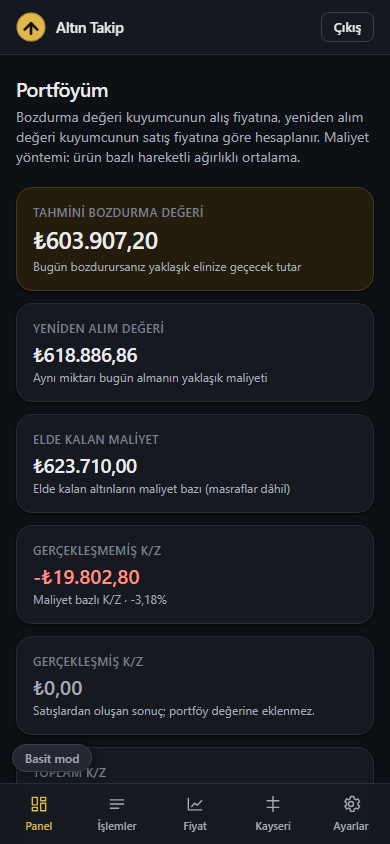
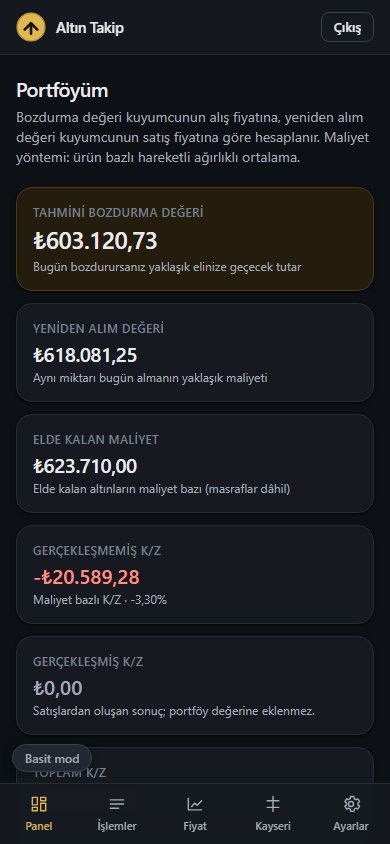
Tasarim turu: gezinme daraltildi, aciklamalar katlandi, altin temasi
KULLANICI GERI BILDIRIMI: "fiyat var kayseri var, ikisi de ayni", "bir suru
yazi var", "altin temasi olsun".

1) GEZINME 5 -> 4 MADDE

"Fiyat" (/fiyat-kaynagi) ve "Kayseri" (/kayseri-fiyatlari) ikisi de fiyat
ekraniydi; yan yana durunca hangisinin ne oldugu anlasilmiyordu. Tek
"Fiyatlar" maddesi kaldi, ikisi arasinda sayfa ici sekmeyle geciliyor.
ADRESLER KORUNDU: eski baglantilar ve yer imleri calisiyor.

2) ACIKLAMALAR KATLANDI (silinmedi)

Yeni <Explain> bilesenl: baslik tek satir durur, isteyen acar. `<details>`
kullanildi -- JavaScript olmadan calisir, klavyeyle acilir, ekran okuyucu
dogru anons eder.

Uygulandigi yerler:
  - Panel basligindaki "bozdurma degeri kuyumcunun alis fiyatina..." paragrafi
  - "Takip baslangicindan itibaren K/Z" bilgilendirmesi

Bu ikincisi icin kullanici "5-10 saniyede kapansin" dedi; KAPATILMADI. O kutu
bir olay bildirimi degil, ekranda DURAN kar/zarar sayisinin etiketidir. Kutu
gidip sayi kalsaydi kullanici onu gercek tarihsel maliyete dayali bir
kar/zarar sanirdi. Yerine yer kaplamasi kucultuldu: koca paragraf yerine tek
satir + isteyen acar.

Kart alti ipuclari kisaltildi ("Bugun bozdurursaniz yaklasik elinize gececek
tutar" -> "Bugun bozdurursaniz yaklasik").

3) ALTIN TEMASI

Yuzeyler soguk griden sicak tona cevrildi (#0d1014 -> #0f0e0b), metin hafif
kremlesti. Fark BILEREK kucuk: ekranin tamami altin rengi olmuyor, altin
rengi yalnizca vurgu icin ayri kaliyor -- yoksa rakamlarin okunabilirligi
duserdi.
[…]

diff --git a/src/components/dashboard-view.tsx b/src/components/dashboard-view.tsx
@@ -34,7 +34,7 @@ import { usePortfolio } from "@/state/portfolio-store";
 import { useViewMode } from "@/state/view-mode";
 import { PortfolioChart } from "./portfolio-chart";
 import { PriceSourceLine } from "./price-source-line";
-import { Card, DeltaValue, EmptyState, SectionTitle, cx, moneySizeClass } from "./ui";
+import { Card, DeltaValue, EmptyState, Explain, SectionTitle, cx, moneySizeClass } from "./ui";
 
 const PRICE_UNAVAILABLE = PRICE_UNAVAILABLE_LABEL;
 
@@ -319,10 +319,21 @@ export function DashboardView({ addHref, onAdd }: { addHref?: string; onAdd?: ()
         <h1 className="text-xl font-semibold tracking-tight text-ink sm:text-2xl">
           {portfolio?.name ?? "Portföyüm"}
         </h1>
-        <p className="mt-1 text-sm text-muted">
-          Bozdurma değeri kuyumcunun alış fiyatına, yeniden alım değeri kuyumcunun satış fiyatına
-          göre hesaplanır. Maliyet yöntemi: ürün bazlı hareketli ağırlıklı ortalama.
-        </p>
+        {/*
+          Açıklama SİLİNMEDİ, katlandı. Doğruluk için gerekli ama her açılışta
+          okunması gerekmiyor; isteyen açar.
+        */}
+        <Explain title="Bu sayılar nasıl hesaplanıyor?" className="mt-1.5">
+          <p>
+            <span className="font-medium text-ink">Bozdurma değeri</span> kuyumcunun alış fiyatına,{" "}
+            <span className="font-medium text-ink">yeniden alım değeri</span> kuyumcunun satış
+            fiyatına göre hesaplanır.
+          </p>
+          <p className="mt-1.5">
+            Maliyet yöntemi: ürün bazlı hareketli ağırlıklı ortalama. Gümüş ve döviz portföy
+            değerine girer, has altın gramına girmez.
+          </p>
+        </Explain>
       </div>
 
       {isClosed ? (
@@ -346,7 +357,7 @@ export function DashboardView({ addHref, onAdd }: { addHref?: string; onAdd?: ()
         <StatCard
           label={isSimple ? `Portföy değeri${partialSuffix}` : `Tahmini bozdurma değeri${partialSuffix}`}
           value={valuation(summary.totalLiquidationValue)}
-          hint={coverageText ?? "Bugün bozdurursanız yaklaşık elinize geçecek tutar"}
+          hint={coverageText ?? "Bugün bozdurursanız yaklaşık"}
           emphasis
           testId="stat-liquidation"
         />
@@ -354,14 +365,14 @@ export function DashboardView({ addHref, onAdd }: { addHref?: string; onAdd?: ()
           <StatCard
             label={`Yeniden alım değeri${partialSuffix}`}
             value={valuation(summary.totalReplacementValue)}
-            hint={coverageText ?? "Aynı miktarı bugün almanın yaklaşık maliyeti"}
+            hint={coverageText ?? "Aynısını bugün almanın maliyeti"}
             testId="stat-repurchase"
           />
         )}
         <StatCard
           label={isSimple ? "Toplam maliyet" : "Elde kalan maliyet"}
           value={formatMoney(summary.totalRemainingCostBasis)}
-          hint="Elde kalan altınların maliyet bazı (masraflar dâhil)"
+          hint="Masraflar dâhil"
           testId="stat-cost"
         />
         {isSimple ? (
@@ -448,16 +459,29 @@ export function DashboardView({ addHref, onAdd }: { addHref?: string; onAdd?: ()
         )}
       </div>
 
+      {/*
+        BU BİR BİLDİRİM DEĞİL, RAKAMIN ETİKETİDİR — bu yüzden kaybolmaz.
+        
+        Kullanıcı "5-10 saniye sonra kapansın" dedi; kapatmadım çünkü kutu bir
+        olayı ("kayıt eklendi") değil, ekranda DURAN kâr/zarar sayısının ne
+        anlama geldiğini anlatıyor. Kutu gidip sayı kalsaydı, kullanıcı onu
+        gerçek tarihsel maliyete dayalı bir kâr/zarar sanırdı.
+        
+        Yerine yer kaplaması küçültüldü: koca paragraf yerine tek satır
+        rozet + isteyen açar. Uyarı hâlâ orada, ama ekranı işgal etmiyor.
+      */}
       {summary.hasEstimatedOrBaseline ? (
-        <div
-          className="rounded-[var(--radius)] border border-[var(--notice-line)] bg-[var(--notice-soft)] px-3.5 py-3 text-sm text-[var(--notice)]"
-          data-testid="pnl-label-notice"
+        <Explain
+          title={`${PNL_LABELS.SINCE_TRACKING_START} — neden?`}
+          className="rounded-[var(--radius)] border border-[var(--notice-line)] bg-[var(--notice-soft)] px-3 py-2"
+          testId="pnl-label-notice"
         >
-          <span className="font-semibold">{PNL_LABELS.SINCE_TRACKING_START}:</span>{" "}
-          {summary.holdingHasEstimatedOrBaseline
-            ? "portföyde takip başlangıç değeri veya tahmini maliyetle eklenmiş altın var. Bu değerler gerçek tarihsel alış maliyeti değildir; kâr/zarar takip başlangıcından itibaren hesaplanır."
-            : "elde kalan altınların tamamı gerçek maliyetli; ancak geçmiş satışların bir kısmı takip başlangıç değerine veya tahmini maliyete dayandığından toplam kâr/zarar gerçek tarihsel maliyet iddiası taşımaz."}
-        </div>
+          <span>
+            {summary.holdingHasEstimatedOrBaseline
+              ? "Portföyde takip başlangıç değeri veya tahmini maliyetle eklenmiş altın var. Bu değerler gerçek tarihsel alış maliyeti değildir; kâr/zarar takip başlangıcından itibaren hesaplanır."
+              : "Elde kalan altınların tamamı gerçek maliyetli; ancak geçmiş satışların bir kısmı takip başlangıç değerine veya tahmini maliyete dayandığından toplam kâr/zarar gerçek tarihsel maliyet iddiası taşımaz."}
+          </span>
+        </Explain>
       ) : null}
 
       {noPrices ? (

diff --git a/src/app/globals.css b/src/app/globals.css
@@ -11,16 +11,24 @@
   /* Koyu tema varsayılandır ve sistem ayarından bağımsız olarak uygulanır. */
   color-scheme: dark;
 
-  --canvas: #0d1014;
-  --surface: #161a20;
-  --surface-2: #1b1f27;
-  --surface-3: #222732;
-  --line: #272d37;
-  --line-strong: #3a414e;
+  /*
+   * ALTIN TEMASI — sıcak nötr.
+   *
+   * Yüzeyler saf griden çıkarılıp sarıya doğru bir tık çevrildi (mavi kanal
+   * kısıldı). Fark küçüktür ve bilerek küçüktür: ekran "altın rengi" olmaz,
+   * altın rengi YALNIZCA vurgu için ayrılır. Sayıların okunabilirliği bozulsun
+   * diye değil, arayüz soğuk görünmesin diye yapıldı.
+   */
+  --canvas: #0f0e0b;
+  --surface: #191712;
+  --surface-2: #1f1c16;
+  --surface-3: #2a251c;
+  --line: #2e2a21;
+  --line-strong: #443d2f;
 
-  --text: #e9ebee;
-  --text-muted: #a4abb6;
-  --text-subtle: #79808d;
+  --text: #f0ece4;
+  --text-muted: #b0a894;
+  --text-subtle: #857d6e;
 
   --accent: #e0b84e;
   --accent-hover: #eec969;
@@ -90,6 +98,58 @@ body {
   font-family: var(--font-sans);
   -webkit-font-smoothing: antialiased;
   text-rendering: optimizeLegibility;
+}
+
+/*
+ * AÇILIR AÇIKLAMA
+ *
+ * Metin silinmez, KATLANIR: başlık tek satır durur, isteyen açar. Ok işareti
+ * yön değiştirerek durumu gösterir; renk tek bilgi taşıyıcı değildir.
+ */
+.explain > summary {
+  cursor: pointer;
+  list-style: none;
+  display: inline-flex;
+  align-items: center;
+  gap: 0.375rem;
+  font-size: 0.75rem;
+  color: var(--text-subtle);
+  padding: 0.125rem 0;
+  border-radius: var(--radius-sm);
+}
+
+.explain > summary::-webkit-details-marker {
+  display: none;
+}
+
+.explain > summary::before {
+  content: "›";
+  display: inline-block;
+  transition: transform 120ms ease;
+  font-size: 0.875rem;
+  line-height: 1;
+}
+
+.explain[open] > summary::before {
+  transform: rotate(90deg);
+}
+
+.explain > summary:hover {
+  color: var(--text-muted);
+}
+
+.explain > summary:focus-visible {
+  outline: 2px solid var(--focus);
+  outline-offset: 2px;
+}
+
+.explain-body {
+  margin-top: 0.375rem;
+  font-size: 0.75rem;
+  line-height: 1.6;
+  color: var(--text-muted);
+  border-left: 2px solid var(--line-strong);
+  padding-left: 0.625rem;
 }
 
 /* Rakamlar sütun hâlinde hizalansın diye tablo rakamları. */

diff --git a/e2e/simple-mode.spec.ts b/e2e/simple-mode.spec.ts
@@ -125,7 +125,17 @@ test.describe("görünüm modu", () => {
     expect(ledger.data?.[0]?.totalPaid).toBe("10000");
   });
 
-  test("altı ürünlü sade liste; elde olmayan ürünler görünmez", async ({ page }) => {
+  /*
+   * Liste artık kataloğun TAMAMINI içerir.
+   *
+   * Eskiden yalnızca altı ürün ve kullanıcının elinde olanlar listeleniyordu;
+   * sonucu şuydu: elinde olmayan bir ürünü satın alamıyordun. Sadeleştirme
+   * ürün eklemeyi engellememelidir.
+   *
+   * Sadelik korunuyor: altı ürün HÂLÂ en üstte ve ilk sıralarda; gerisi
+   * "Tüm altın türleri" başlığı altında.
+   */
+  test("altı ürün en üstte; kataloğun tamamı seçilebilir", async ({ page }) => {
     const username = scopedUsername("altiurun");
     await signIn(page, username);
 
@@ -134,7 +144,8 @@ test.describe("görünüm modu", () => {
     const select = page.getByLabel("Altın türü");
     const labels = await select.locator("option").allTextContents();
 
-    expect(labels).toEqual([
+    // İlk altı sıra değişmedi: sık kullanılanlar önce gelir.
+    expect(labels.slice(0, 6)).toEqual([
       "Gram Altın",
       "Çeyrek Altın",
       "Yarım Altın",
@@ -142,10 +153,12 @@ test.describe("görünüm modu", () => {
       "Ata Altın",
       "Gremse Altın",
     ]);
-    // Gizlenen ürünler varsayılan listede YOKTUR.
-    expect(labels.join("|")).not.toContain("Reşat");
-    expect(labels.join("|")).not.toContain("18 Ayar");
-    expect(labels.join("|")).not.toContain("Külçe");
+
+    // Geri kalan katalog da ULAŞILABİLİR olmalı.
+    const joined = labels.join("|");
+    for (const expected of ["Reşat", "18 Ayar", "Külçe", "22 Ayar", "Gümüş", "Dolar", "Euro"]) {
+      expect(joined, expected).toContain(expected);
+    }
   });
 
   test("elde gizli üründen kayıt varsa listede ve 'Diğer varlıklar'da görünür", async ({ page }) => {

diff --git a/src/components/price-tabs.tsx b/src/components/price-tabs.tsx
@@ -1,0 +1,48 @@
+"use client";
+
+import Link from "next/link";
+import { usePathname } from "next/navigation";
+
+import { cx } from "./ui";
+
+/**
+ * FİYAT EKRANLARI ARASI SEKMELER.
+ *
+ * "Fiyat kaynağı" ve "Kayseri ekranı" gezinmede iki ayrı madde olarak
+ * duruyordu; ikisi de fiyat ekranı olduğu için hangisinin ne olduğu
+ * anlaşılmıyordu. Artık gezinmede TEK madde var, ikisi arasında burada
+ * geçiliyor.
+ *
+ * Adresler korunur: eski bağlantılar ve yer imleri çalışmaya devam eder.
+ */
+const TABS = [
+  { href: "/fiyat-kaynagi", label: "Kaynak" },
+  { href: "/kayseri-fiyatlari", label: "Kayseri ekranı" },
+] as const;
+
+export function PriceTabs() {
+  const pathname = usePathname();
+
+  return (
+    <nav className="flex gap-1 border-b border-line" aria-label="Fiyat ekranları">
+      {TABS.map((tab) => {
+        const active = pathname === tab.href;
+        return (
+          <Link
+            key={tab.href}
+            href={tab.href}
+            aria-current={active ? "page" : undefined}
+            className={cx(
+              "min-h-11 border-b-2 px-3 py-2.5 text-sm font-medium transition-colors",
+              active
+                ? "border-accent text-accent"
+                : "border-transparent text-muted hover:text-ink",
+            )}
+          >
+            {tab.label}
+          </Link>
+        );
+      })}
+    </nav>
+  );
+}

diff --git a/src/components/ui.tsx b/src/components/ui.tsx
@@ -217,3 +217,39 @@ export function moneySizeClass(text: string, emphasis = false): string {
   if (length >= 13) return emphasis ? "text-xl sm:text-2xl" : "text-lg sm:text-xl";
   return emphasis ? "text-2xl sm:text-3xl" : "text-xl sm:text-2xl";
 }
+
+/**
+ * AÇILIR AÇIKLAMA — "gerektiğinde göster".
+ *
+ * Bu uygulama bilerek çok şey açıklar: hangi fiyat nereden geliyor, maliyet
+ * nasıl hesaplanıyor, bir ürün neden fiyatsız. Bu metinler DOĞRULUK için
+ * gereklidir ve silinmez.
+ *
+ * Ama hepsini aynı anda göstermek ekranı yoruyor. Çözüm metni atmak değil,
+ * KATLAMAK: varsayılan olarak tek satırlık bir başlık görünür, isteyen açar.
+ *
+ * `<details>` kullanılır çünkü JavaScript olmadan da çalışır, klavyeyle
+ * açılır ve ekran okuyucular doğru anons eder.
+ */
+export function Explain({
+  title,
+  children,
+  className,
+  testId,
+}: {
+  title: string;
+  children: ReactNode;
+  className?: string;
+  /**
+   * Test kancası KÖK öğeye konur, gövdeye değil: kapalı bir `<details>`
+   * içindeki metin "görünmez" sayılır ve testler yanlışlıkla düşerdi.
+   */
+  testId?: string;
+}) {
+  return (
+    <details className={cx("explain", className)} data-testid={testId}>
+      <summary className="explain-summary">{title}</summary>
+      <div className="explain-body">{children}</div>
+    </details>
+  );
+}

diff --git a/src/components/app-shell.tsx b/src/components/app-shell.tsx
@@ -56,8 +56,14 @@ function buildNavItems(role: SessionUser["role"] | null): NavItem[] {
   const items: NavItem[] = [
     { href: "/panel", label: "Panel", icon: ICONS.panel },
     { href: "/islemler", label: "İşlemler", icon: ICONS.transactions },
-    { href: "/fiyat-kaynagi", label: "Fiyat", icon: ICONS.priceSource },
-    { href: "/kayseri-fiyatlari", label: "Kayseri", icon: ICONS.kayseri },
+    /*
+     * "Fiyat" ve "Kayseri" TEK girişte birleşti.
+     *
+     * İkisi de fiyat ekranıydı ve gezinmede yan yana durunca hangisinin ne
+     * olduğu anlaşılmıyordu. Kayseri ekranı artık fiyat sayfasının bir
+     * sekmesidir; adres (/kayseri-fiyatlari) korunur, eski bağlantılar çalışır.
+     */
+    { href: "/fiyat-kaynagi", label: "Fiyatlar", icon: ICONS.priceSource },
     { href: "/ayarlar", label: "Ayarlar", icon: ICONS.settings },
   ];
   if (role === "admin") {

diff --git a/src/app/(app)/(portfoy)/fiyat-kaynagi/page.tsx b/src/app/(app)/(portfoy)/fiyat-kaynagi/page.tsx
@@ -1,6 +1,7 @@
 import type { Metadata } from "next";
 
 import { PriceSourcesView } from "@/components/price-sources-view";
+import { PriceTabs } from "@/components/price-tabs";
 import { getPriceSourceService, requireUsableUser } from "@/server/auth";
 
 export const metadata: Metadata = { title: "Fiyat kaynağı" };
@@ -16,11 +17,14 @@ export default async function PriceSourcePage() {
     service.compareSources(actor),
   ]);
   return (
-    <PriceSourcesView
-      initialOptions={options}
-      initialActive={active.source}
-      initialEvents={events}
-      initialCompare={compare}
-    />
+    <div className="space-y-5">
+      <PriceTabs />
+      <PriceSourcesView
+        initialOptions={options}
+        initialActive={active.source}
+        initialEvents={events}
+        initialCompare={compare}
+      />
+    </div>
   );
 }

diff --git a/src/app/(app)/(portfoy)/kayseri-fiyatlari/page.tsx b/src/app/(app)/(portfoy)/kayseri-fiyatlari/page.tsx
@@ -1,6 +1,7 @@
 import type { Metadata } from "next";
 
 import { KayseriPricesView } from "@/components/kayseri-prices-view";
+import { PriceTabs } from "@/components/price-tabs";
 import { getPriceSourceService, requireUsableUser } from "@/server/auth";
 
 export const metadata: Metadata = { title: "Kayseri fiyatları" };
@@ -16,5 +17,10 @@ export const dynamic = "force-dynamic";
 export default async function KayseriPricesPage() {
   const actor = await requireUsableUser();
   const snapshot = await getPriceSourceService().kayseriScreenRows(actor);
-  return <KayseriPricesView snapshot={snapshot} />;
+  return (
+    <div className="space-y-5">
+      <PriceTabs />
+      <KayseriPricesView snapshot={snapshot} />
+    </div>
+  );
 }
